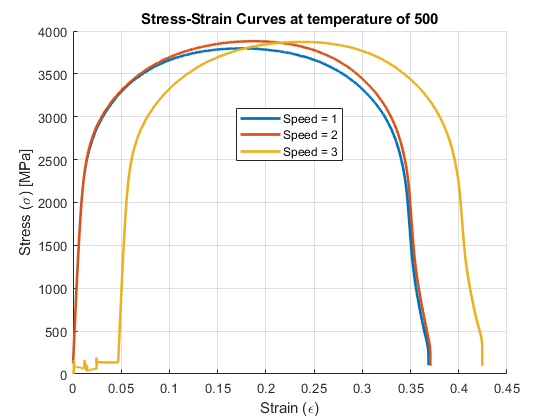
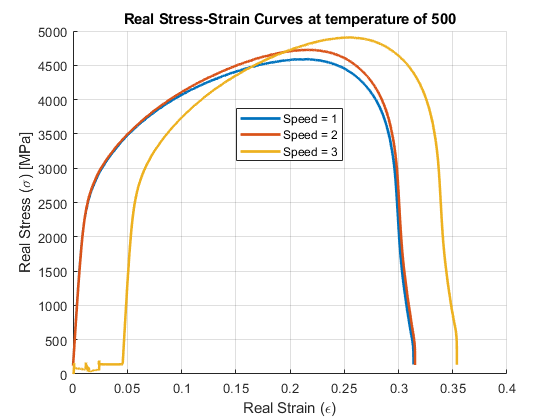
V1

diff --git a/Computer Science/Fiverr/Gig15 MATLAB/code.m b/Computer Science/Fiverr/Gig15 MATLAB/code.m
@@ -12,6 +12,8 @@ A0 = t0 .* w0; % Cross-sectional areas for the tests
 % Preallocate arrays for results
 strain_data = {};
 stress_data = {};
+real_strain_data = {};
+real_stress_data = {};
 
 % Loop through each file and process the data
 for i = 1:length(files)
@@ -75,6 +77,8 @@ for i = 1:length(files)
     % Store results
     strain_data{i} = strain;
     stress_data{i} = stress;
+    real_strain_data{i} = log(1+strain);
+    real_stress_data{i} = stress .* (1+strain);
 end
 
 % Plot Stress-Strain Curves
@@ -83,15 +87,15 @@ hold on;
 maxStress = 0;
 for i = 1:length(files)
     maxStress = max(maxStress,max(stress_data{i}));
-    plot(strain_data{i}, stress_data{i}, 'LineWidth', 2, 'DisplayName', ['Speed = ', num2str(i)]);
+    plot(real_strain_data{i}, real_stress_data{i}, 'LineWidth', 2, 'DisplayName', ['Speed = ', num2str(i)]);
 end
 hold off;
 
 % Format Plot
-title('Stress-Strain Curves at temperature of 500');
-xlabel('Strain (\epsilon)');
-ylabel('Stress (\sigma) [MPa]');
+title('Real Stress-Strain Curves at temperature of 500');
+xlabel('Real Strain (\epsilon)');
+ylabel('Real Stress (\sigma) [MPa]');
 legend('Location', 'Best');
-ylim([0 4000]);
-xlim([0.2 0.5]);
+ylim([0 5000]);
+xlim([0.2 0.4]);
 grid on;
